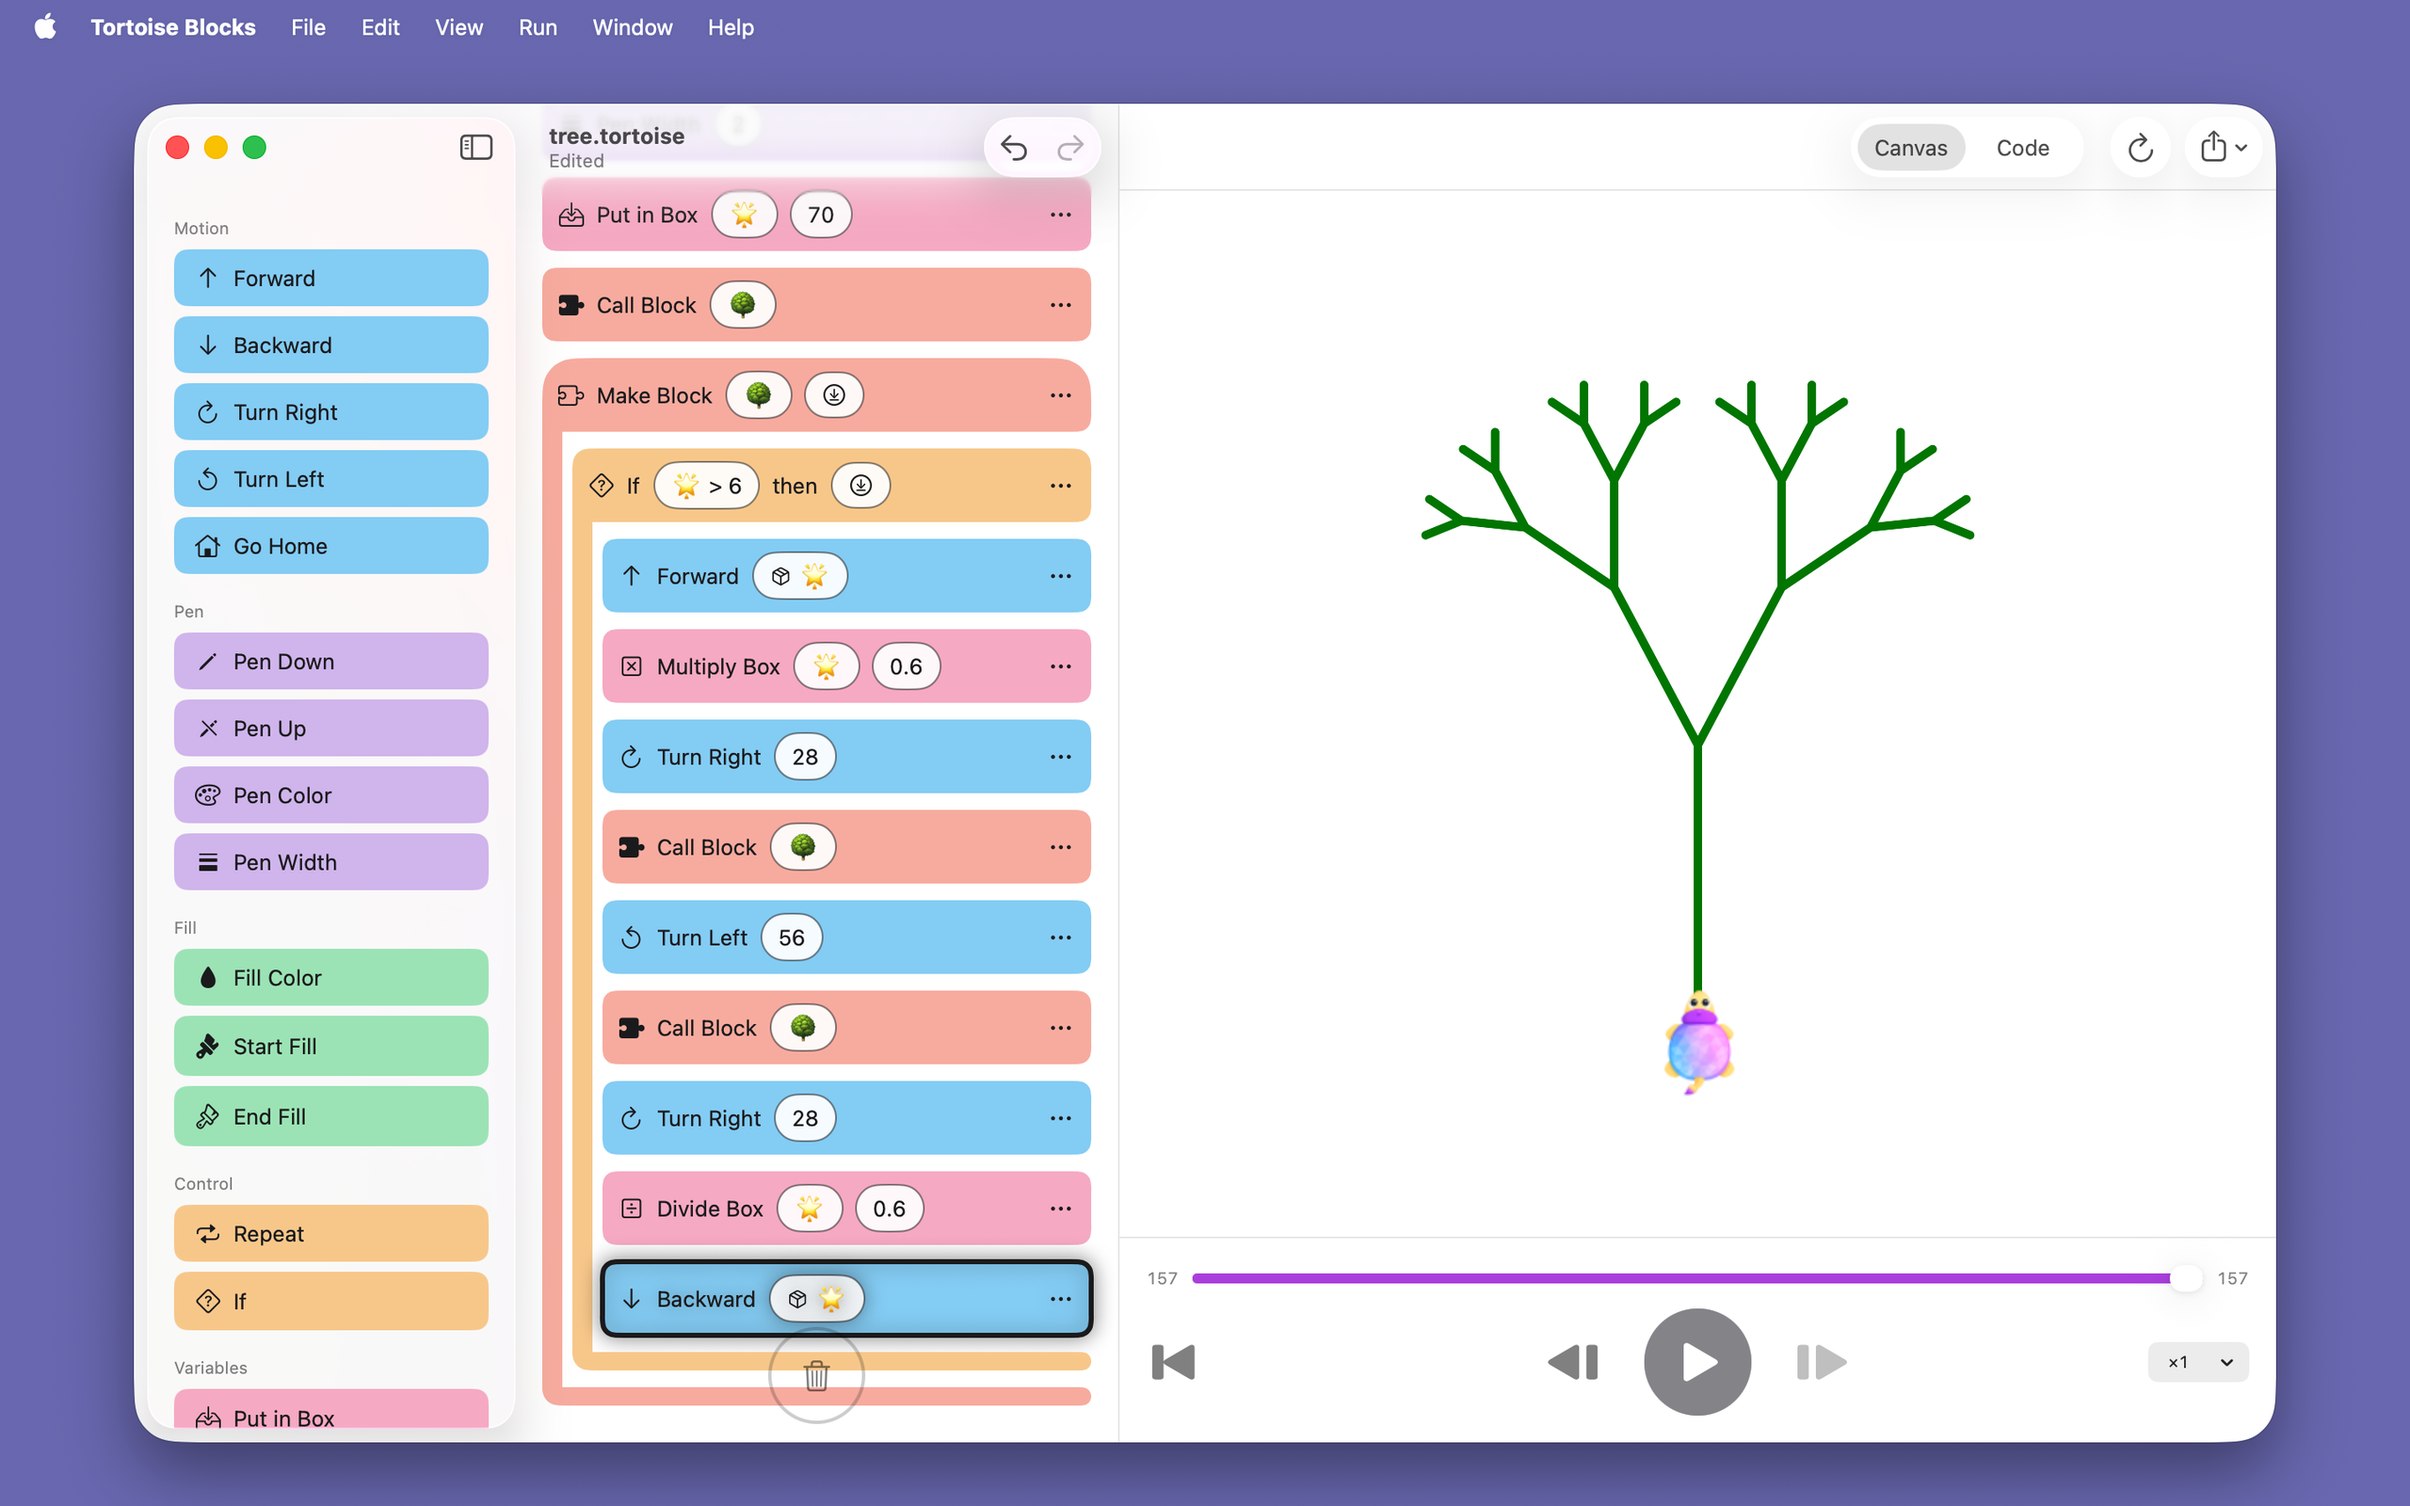
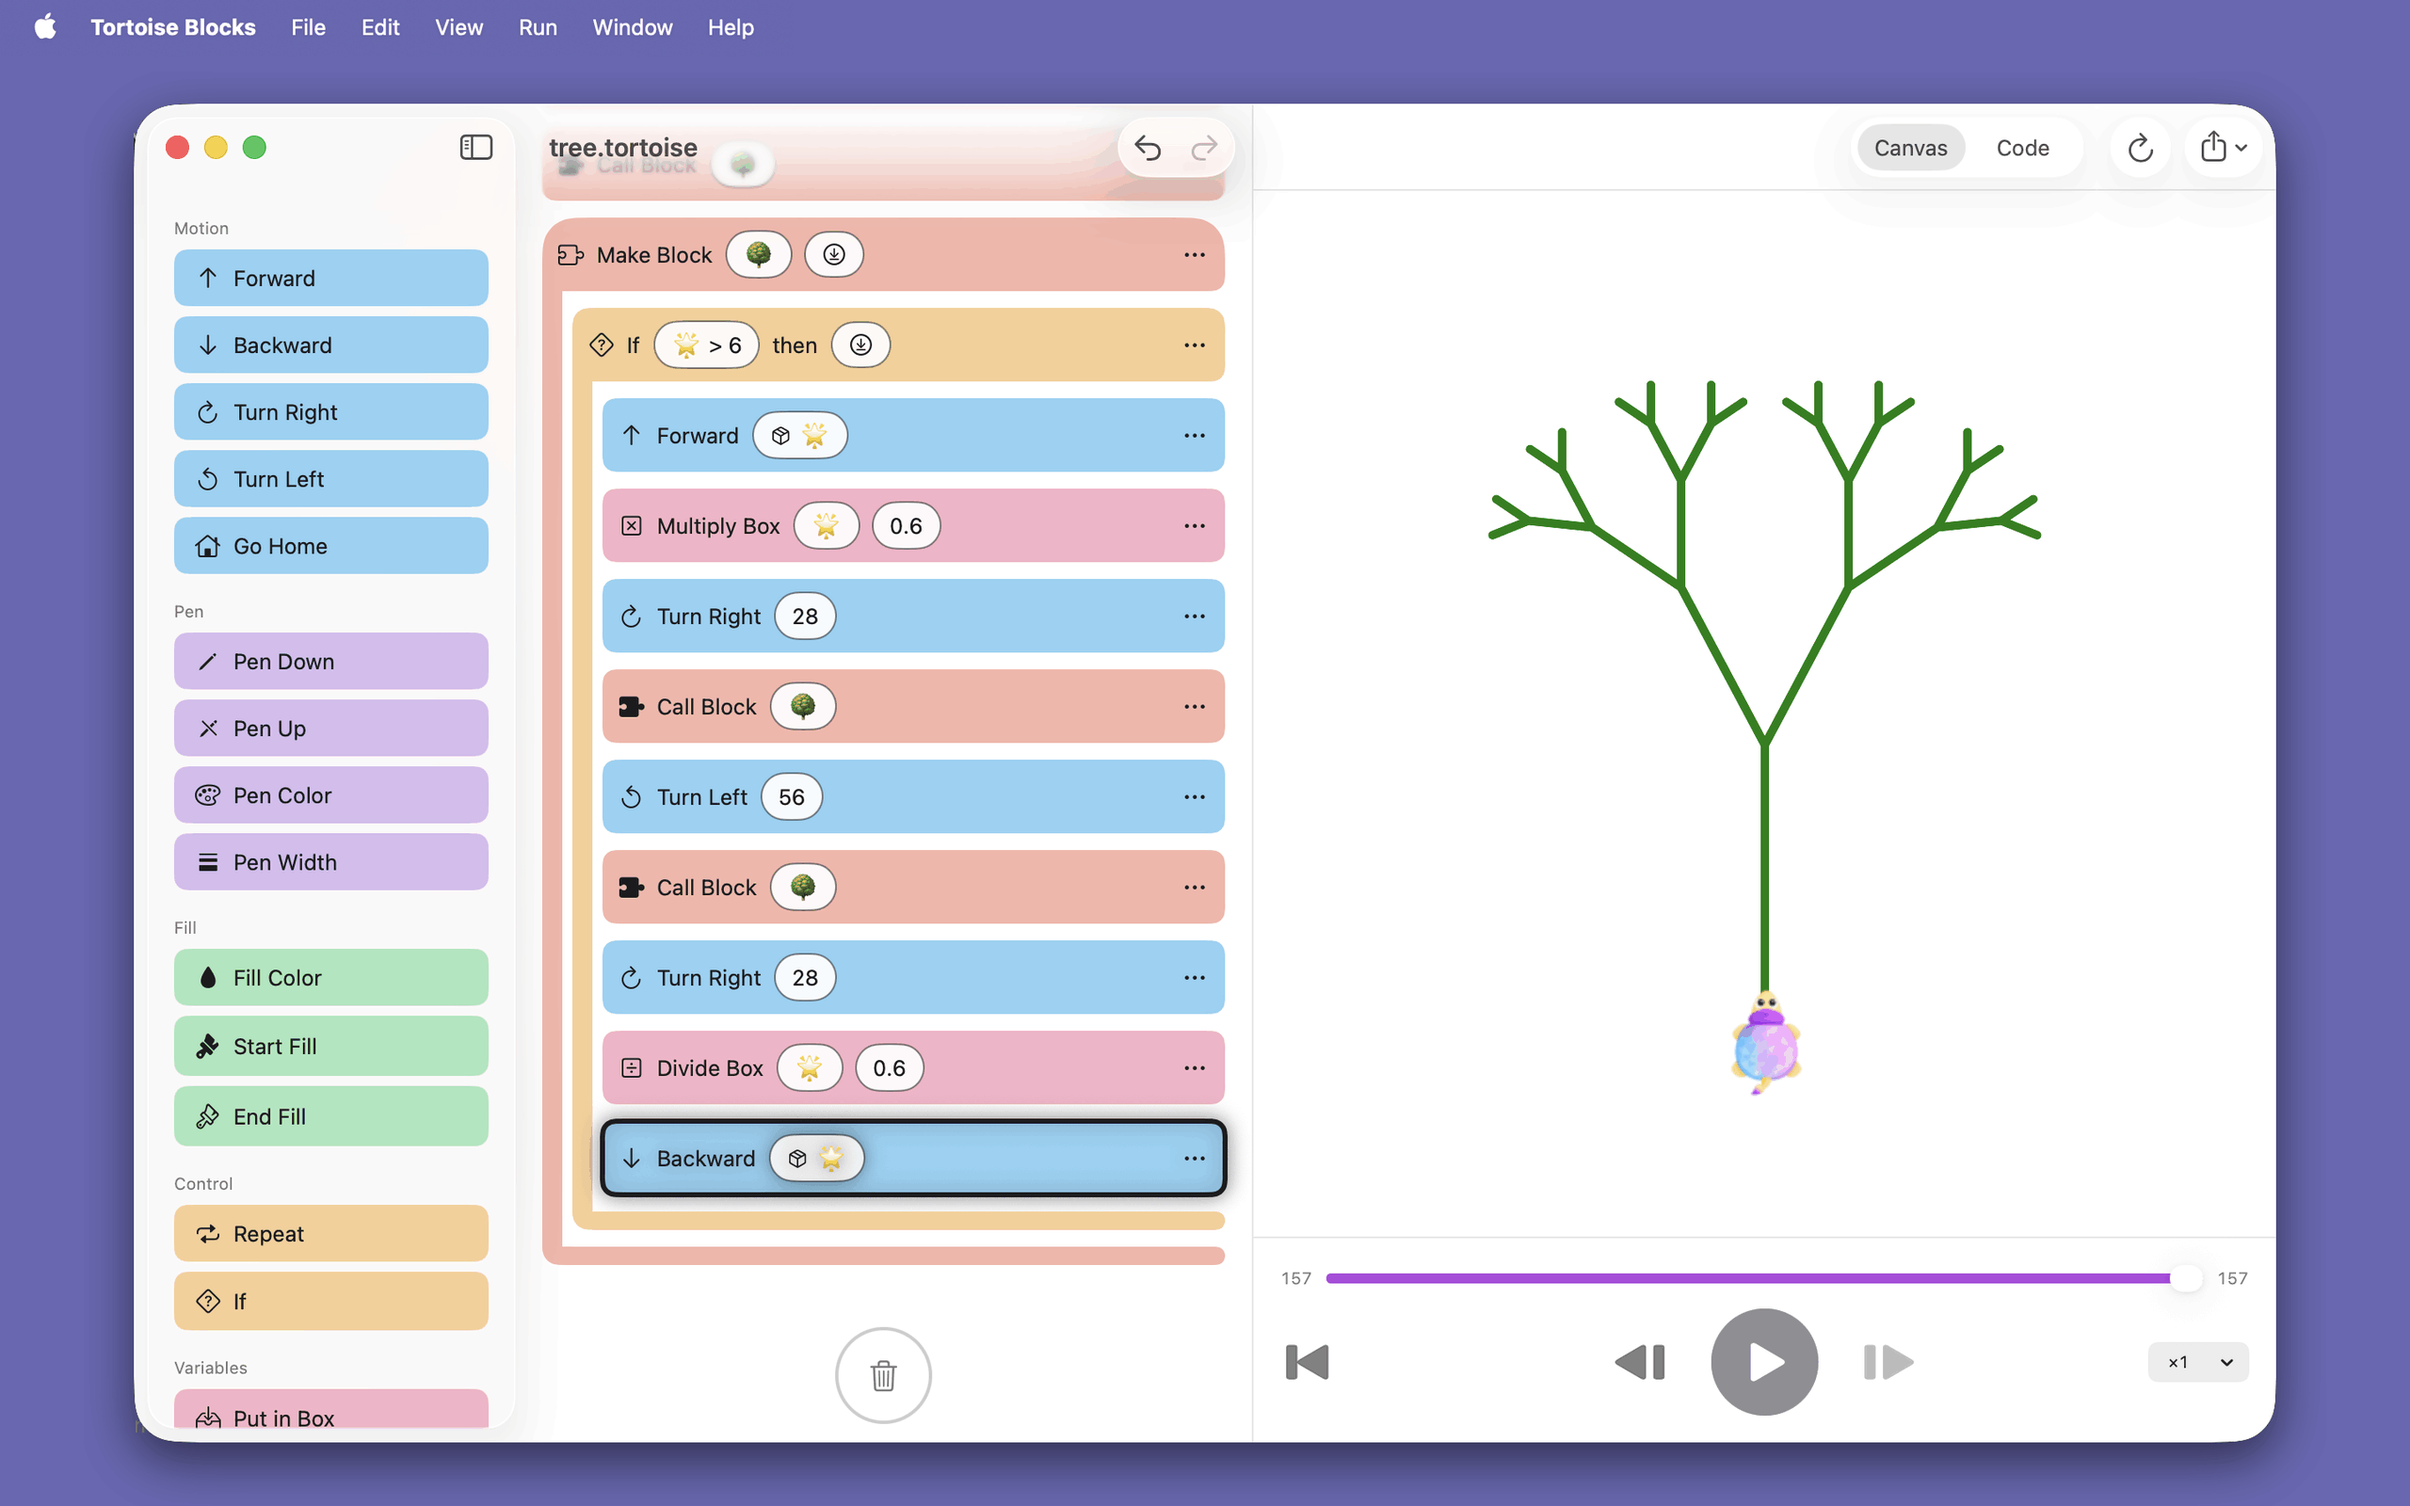
Derive the README's Mac picture too, from the tree capture
Leaving it out was argued from one comparison against the wrong capture —
the star — and read as "no App Store capture matches this". The Mac set has
shot 4, the same scene: tree.tortoise, palette open, 🌳 calling itself, the
fractal beside it. The committed picture predates the rigs and was composed
by hand, so this refreshes it rather than replacing it; the window sits a
little differently and the workspace is scrolled to a different row, which is
what a re-shoot of the same thing looks like.

Both README images now come out of the same table as site/shots, so a reshoot
cannot leave either behind. The Mac one is the tree on purpose: it is the only
capture that shows a block calling itself, which is what the README's longest
bullet is about. 679KB to 141KB on the way through, and a second run over
unchanged captures still rewrites nothing.

diff --git a/Tools/screenshots.rb b/Tools/screenshots.rb
@@ -70,17 +70,20 @@ DERIVED = {
   }
 }.freeze
 
-# The README's picture of the Vision Pro app, on the same terms as the site
-# copies and for the same reason: what a reshoot silently leaves behind is the
-# picture nobody has open while shooting. Same recipe, too — quantised to 256
-# colours — which is what makes rerunning this reproduce the committed file
-# rather than rewrite it.
+# The README's two pictures, on the same terms as the site copies and for the
+# same reason: what a reshoot silently leaves behind is the picture nobody has
+# open while shooting. Same recipe, too — quantised to 256 colours — which is
+# what makes rerunning this reproduce the committed files rather than rewrite
+# them.
 #
-# `docs/Screenshot.png` is deliberately *not* here. It is a composition of its
-# own, a Mac window over a desktop with the palette open, and no App Store
-# capture matches it; deriving it would replace the picture rather than refresh
-# it.
+# The Mac one is the *tree* on purpose. It is the only capture in the set that
+# shows a block calling itself, which is what the README spends its longest
+# bullet on, and the platform section is the Mac's other job on the page
+# already. Both README images were composed by hand before the rigs existed —
+# the same scenes, shot separately — so this refreshes them rather than
+# replacing them, and the window sits a little differently for it.
 DOCS_DERIVED = {
+  "macos/en-US/4_tree_canvas" => { target: "Screenshot.png", size: "2560x1600" },
   "visionos/en-US/1_star_table" => { target: "Viewer.png", size: "1600x900" }
 }.freeze
 

diff --git a/.claude/skills/screenshots/SKILL.md b/.claude/skills/screenshots/SKILL.md
@@ -21,7 +21,7 @@ only evidence that counts.
 ruby Tools/ipad-shots.rb                 # iPad: 4 shots × 2 languages, ~8 min
 ruby Tools/macos-shots.rb                # Mac: 4 shots × 2 languages
 ruby Tools/visionos-shots.rb             # Vision Pro: 3 shots × 2 languages
-ruby Tools/screenshots.rb                # always: strip alpha, optimise, rebuild site/shots + docs/Viewer.png
+ruby Tools/screenshots.rb                # always: strip alpha, optimise, rebuild site/shots and docs/
 ```
 
 All three take a name filter (`ruby Tools/ipad-shots.rb star`) and end by
@@ -53,10 +53,9 @@ composite. A capture with *real* transparency stops the run instead, because
 choosing a background would change the picture and that is a person's decision.
 
 It then runs `oxipng -o max --strip safe`, which is lossless and worth about a
-fifth of the bytes, and regenerates `site/shots/` — and `docs/Viewer.png`, the
-README's one picture of the Vision Pro app, which is derived on exactly the
-same terms. (`docs/Screenshot.png` is not: it is a composition of its own, and
-no capture matches it.)
+fifth of the bytes, and regenerates `site/shots/` — and the README's two
+pictures, `docs/Screenshot.png` (the Mac tree capture) and `docs/Viewer.png`
+(the Vision Pro one), which are derived on exactly the same terms.
 
 **That last part is the reason it is a script and not a paragraph.** The site
 images are downscaled copies of seven captures, so a reshoot that stops at

diff --git a/CLAUDE.md b/CLAUDE.md
@@ -36,7 +36,7 @@ xcrun simctl io <device> screenshot shot.png     # 3840x2160, with an alpha chan
 
 # The App Store listing (appstore/). The check needs no key and no bundle;
 # the other two need ASC_ISSUER_ID / ASC_KEY_ID / ASC_PRIVATE_KEY_PATH.
-ruby Tools/screenshots.rb                  # after ANY reshoot: strip alpha, optimise, rebuild site/shots + docs/Viewer.png
+ruby Tools/screenshots.rb                  # after ANY reshoot: strip alpha, optimise, rebuild site/shots and docs/
 ruby fastlane/metadata_check.rb            # what CI runs on every pull request
 bundle exec fastlane ios metadata_diff     # live listing vs what is written
 bundle exec fastlane ios metadata_push     # upload (mac for the other listing)

diff --git a/README.md b/README.md
@@ -15,7 +15,7 @@ graphics engine written in Swift.
 [**App Store**](https://apps.apple.com/app/id6798677334) ·
 [Privacy](https://temoki.github.io/TortoiseBlocks/privacy.html)
 
-<img src="docs/Screenshot.png" width="640" alt="TortoiseBlocks on macOS" />
+<img src="docs/Screenshot.png" width="640" alt="Tortoise Blocks on macOS: a block named 🌳 that calls itself twice, and the fractal tree it draws." />
 
 ## Features
 
